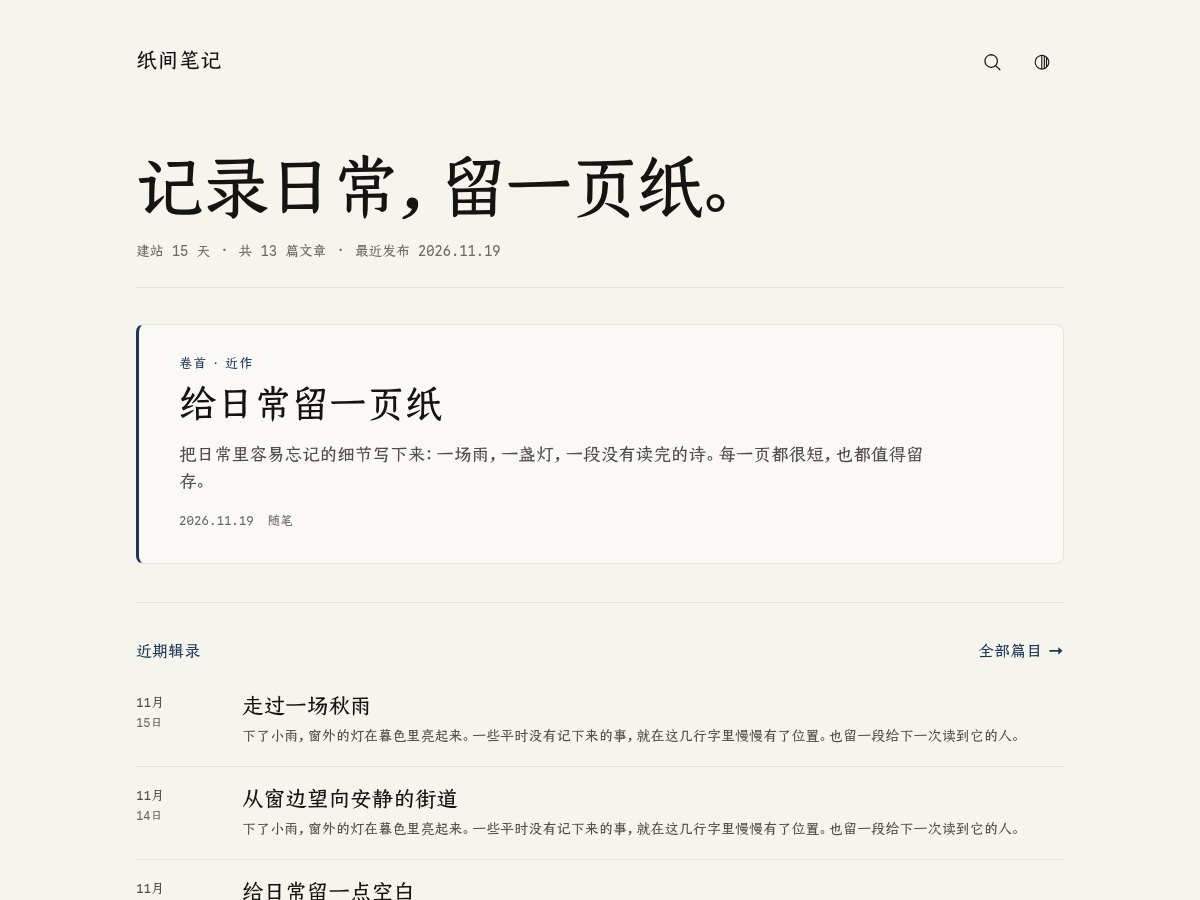
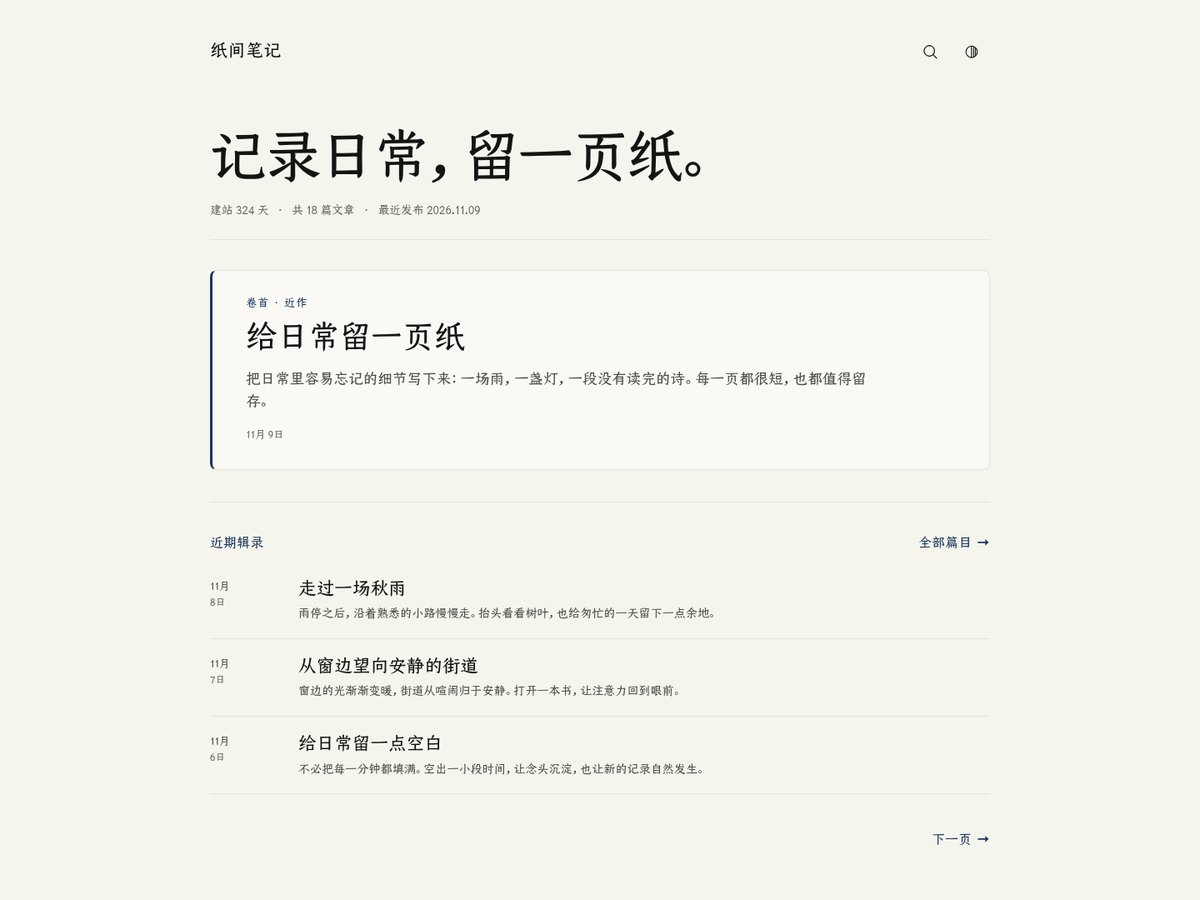
fix: interactions

diff --git a/theme/zen/js/main.js b/theme/zen/js/main.js
@@ -249,9 +249,12 @@ const zenInit = () => {
     });
 
     // --- 1. 代码高亮 + 一键复制 ---
-    const copyTextToClipboard = (text) => {
+    const copyTextToClipboard = async (text) => {
         if (navigator.clipboard && window.isSecureContext) {
-            return navigator.clipboard.writeText(text);
+            try {
+                await navigator.clipboard.writeText(text);
+                return;
+            } catch (error) {}
         }
         return new Promise((resolve, reject) => {
             const previousFocus = document.activeElement;
@@ -299,26 +302,28 @@ const zenInit = () => {
             copyBtn.appendChild(copyIcon);
             copyBtn.appendChild(copyLabel);
 
+            let copyAttempt = 0;
+            let copyResetTimer;
+            const showCopyResult = (copied, attempt) => {
+                if (attempt !== copyAttempt) return;
+                copyIcon.className = copied ? 'ph ph-check' : 'ph ph-copy';
+                copyLabel.textContent = copied ? '已复制' : '复制失败';
+                copyBtn.classList.toggle('is-copied', copied);
+                copyBtn.setAttribute('aria-label', copyLabel.textContent);
+                copyResetTimer = setTimeout(() => {
+                    copyIcon.className = 'ph ph-copy';
+                    copyLabel.textContent = '复制';
+                    copyBtn.classList.remove('is-copied');
+                    copyBtn.setAttribute('aria-label', '复制代码');
+                }, 1600);
+            };
             copyBtn.addEventListener('click', () => {
-                copyTextToClipboard(code.textContent).then(() => {
-                    copyIcon.className = 'ph ph-check';
-                    copyLabel.textContent = '已复制';
-                    copyBtn.classList.add('is-copied');
-                    copyBtn.setAttribute('aria-label', '已复制');
-                    setTimeout(() => {
-                        copyIcon.className = 'ph ph-copy';
-                        copyLabel.textContent = '复制';
-                        copyBtn.classList.remove('is-copied');
-                        copyBtn.setAttribute('aria-label', '复制代码');
-                    }, 1600);
-                }).catch(() => {
-                    copyLabel.textContent = '复制失败';
-                    copyBtn.setAttribute('aria-label', '复制失败');
-                    setTimeout(() => {
-                        copyLabel.textContent = '复制';
-                        copyBtn.setAttribute('aria-label', '复制代码');
-                    }, 1600);
-                });
+                const attempt = ++copyAttempt;
+                clearTimeout(copyResetTimer);
+                copyTextToClipboard(code.textContent).then(
+                    () => showCopyResult(true, attempt),
+                    () => showCopyResult(false, attempt)
+                );
             });
 
             const frame = document.createElement('div');
@@ -648,6 +653,7 @@ const zenInit = () => {
     const drawerClose = document.getElementById('drawer-toc-close');
     let lastFocusBeforeDrawer;
     let drawerCloseTimer;
+    let drawerNavigationTarget;
     let drawerOpening = 0;
 
     if (tocTriggers.length && drawerToc && tocOverlay) {
@@ -660,6 +666,7 @@ const zenInit = () => {
             } else {
                 lastFocusBeforeDrawer = event.currentTarget;
             }
+            drawerNavigationTarget = null;
             tocOverlay.classList.remove('hidden');
             const opening = ++drawerOpening;
             requestAnimationFrame(() => {
@@ -675,7 +682,9 @@ const zenInit = () => {
         };
 
         closeDrawer = (navigationTarget = null) => {
-            if (activeModal?.container !== drawerToc || drawerCloseTimer) return;
+            if (activeModal?.container !== drawerToc) return;
+            if (navigationTarget) drawerNavigationTarget = navigationTarget;
+            if (drawerCloseTimer) return;
             ++drawerOpening;
             tocOverlay.classList.add('opacity-0');
             drawerToc.classList.add('translate-x-full');
@@ -687,8 +696,9 @@ const zenInit = () => {
                 drawerToc.setAttribute('inert', '');
                 drawerCloseTimer = null;
                 unlockModal();
-                if (navigationTarget) focusTocTarget(navigationTarget);
+                if (drawerNavigationTarget) focusTocTarget(drawerNavigationTarget);
                 else restoreModalFocus(lastFocusBeforeDrawer);
+                drawerNavigationTarget = null;
             }, 300);
         };
 

diff --git a/theme/zen/assets/js/admin.js b/theme/zen/assets/js/admin.js
@@ -80,8 +80,7 @@
                 if (!editors[index]) {
                     var instance = window.wp.codeEditor.initialize(field, {
                         codemirror: {
-                            screenReaderLabel: field.labels[0].textContent.trim(),
-                            extraKeys: { 'Ctrl-S': saveSettings, 'Cmd-S': saveSettings }
+                            screenReaderLabel: field.labels[0].textContent.trim()
                         },
                         onTabNext: function () { focusCode(index + 1); },
                         onTabPrevious: function () { focusCode(index - 1); }
@@ -122,11 +121,12 @@
         document.addEventListener('click', clearSubmission, true);
         document.addEventListener('keydown', clearSubmission, true);
         document.addEventListener('keydown', function (event) {
+            // Capture before CodeMirror consumes the key: one validated save path for every control.
             if (event.defaultPrevented || event.isComposing || event.key.toLowerCase() !== 's'
                 || !(event.ctrlKey || event.metaKey) || event.shiftKey || event.altKey || !form.requestSubmit) return;
             event.preventDefault();
             if (!event.repeat) saveSettings();
-        });
+        }, true);
         window.addEventListener('beforeunload', function (event) {
             // A native submit may leave this document open (for example on HTTP 204).
             var leavingForSubmit = submission && !submission.defaultPrevented;

diff --git a/theme/zen/assets/css/style.css b/theme/zen/assets/css/style.css
@@ -770,6 +770,11 @@ select:focus-visible {
 .zen-comment-card .zen-comment-text p:first-child {
     margin-top: 0;
 }
+.zen-comment-card { overflow-wrap: anywhere; }
+.zen-comment-text pre {
+    max-width: 100%;
+    overflow-x: auto;
+}
 .comment-form {
     display: grid;
     gap: 1.05rem 1.25rem;
@@ -911,6 +916,7 @@ select:focus-visible {
 }
 .comment-list {
     display: grid;
+    grid-template-columns: minmax(0, 1fr);
     gap: 0;
     padding-top: 0.5rem;
 }
@@ -925,6 +931,7 @@ select:focus-visible {
 }
 .comment-list .children {
     display: grid;
+    grid-template-columns: minmax(0, 1fr);
     gap: 0;
     margin-top: 0.9rem;
     margin-left: 2.25rem;

diff --git a/tests/native-comment-layout-regression.py b/tests/native-comment-layout-regression.py
@@ -1,0 +1,69 @@
+"""Native comment names and preformatted text stay inside the reading column."""
+from pathlib import Path
+import json
+import os
+import subprocess
+import sys
+from playwright.sync_api import sync_playwright
+
+root = Path(sys.argv[1]).resolve()
+origin = 'http://127.0.0.1:18765'
+assert (root / 'runtime/.zen-isolated-fixture').is_file()
+cli = ['php', '/opt/test-tools/wordpress/wp-cli.phar', '--allow-root', '--path=' + str(root / 'runtime')]
+def wp(*args):
+    result = subprocess.run(cli + list(args), capture_output=True, text=True)
+    assert result.returncode == 0, result.stderr
+    return result.stdout.strip()
+assert json.loads(wp('eval', 'echo wp_json_encode([wp_get_environment_type(),home_url(),FQDB]);')) == ['local', origin, str(root / 'db/zen.sqlite')]
+source = Path(__file__).resolve().parents[1] / 'theme/zen/assets/css/style.css'
+assert source.read_bytes() == (root / 'runtime/wp-content/themes/zen/assets/css/style.css').read_bytes()
+rows, errors = [], []
+post = wp('post', 'create', '--post_title=Native comment layout', '--post_status=publish', '--post_content=<p>Comment layout.</p>', '--comment_status=open', '--porcelain')
+try:
+    parent = '0'
+    for depth in range(3):
+        parent = wp('comment', 'create', '--comment_post_ID=' + post, '--comment_parent=' + parent,
+                    '--comment_author=' + 'Reader' * 35, '--comment_author_email=local@example.invalid',
+                    '--comment_content=<p>' + 'https://example.test/long/' * 12 + '</p><pre><code>' + 'abcdefghijklmnopqrstuvwxyz' * 25 + '</code></pre>',
+                    '--comment_approved=1', '--porcelain')
+    with sync_playwright() as p:
+        browser = p.chromium.launch(executable_path='/usr/lib/chromium/chromium', args=['--no-sandbox', '--disable-dev-shm-usage', '--single-process', '--no-zygote'], env={**os.environ, 'DBUS_SESSION_BUS_ADDRESS': 'unix:path=/nonexistent', 'DBUS_SYSTEM_BUS_ADDRESS': 'unix:path=/nonexistent'})
+        group = Path('/proc/self/cgroup').read_text()
+        control = Path('/sys/fs/cgroup') / group.strip().split('::/', 1)[1]
+        assert any((x / 'memory.max').is_file() and (x / 'memory.max').read_text().strip() == '4294967296' and (x / 'memory.swap.max').read_text().strip() == '0' for x in (control, *control.parents))
+        processes = browser.new_browser_cdp_session().send('SystemInfo.getProcessInfo')['processInfo']
+        assert processes and all(Path(f'/proc/{item["id"]}/cgroup').read_text() == group for item in processes)
+        context = browser.new_context(reduced_motion='reduce')
+        context.route('**/*', lambda route: route.continue_() if route.request.url.startswith(origin + '/') or route.request.url.startswith('data:') else route.abort())
+        page = context.new_page()
+        page.on('pageerror', lambda error: errors.append(str(error)))
+        for width in (320, 390, 768, 1440):
+            page.set_viewport_size({'width': width, 'height': 900})
+            response = page.goto(origin + '/?p=' + post, wait_until='networkidle')
+            assert response.status == 200
+            for dark in (False, True):
+                page.evaluate('(dark)=>document.documentElement.classList.toggle("dark",dark)', dark)
+                data = page.evaluate('''()=>({overflow:document.documentElement.scrollWidth-innerWidth,cards:[...document.querySelectorAll('.zen-comment-card')].map(e=>{const r=e.getBoundingClientRect(),name=e.querySelector('h4'),pre=e.querySelector('pre'),reply=e.querySelector('.comment-reply-link'),code=e.querySelector('pre code');return {left:r.left,right:r.right,nameWrap:getComputedStyle(name).overflowWrap,nameOverflow:name.scrollWidth-name.clientWidth,preWidth:pre.clientWidth,preScroll:pre.scrollWidth,preOverflow:getComputedStyle(pre).overflowX,code:code.textContent,reply:!!reply&&reply.getBoundingClientRect().width>0}})})''')
+                assert data['overflow'] <= 1, (width, dark, data)
+                assert len(data['cards']) == 3, data
+                for card in data['cards']:
+                    assert 0 <= card['left'] < card['right'] <= width, card
+                    assert card['nameWrap'] == 'anywhere' and card['nameOverflow'] <= 1, card
+                    assert card['preWidth'] > 0 and card['preScroll'] > card['preWidth'] and card['preOverflow'] == 'auto', card
+                    assert card['code'] == 'abcdefghijklmnopqrstuvwxyz' * 25 and card['reply'], card
+                scrollable = page.locator('.zen-comment-text pre').evaluate_all('es=>es.map(e=>{e.scrollLeft=e.scrollWidth;return e.scrollLeft>0})')
+                assert all(scrollable) and len(scrollable)==3, scrollable
+                assert page.evaluate('document.documentElement.scrollWidth<=innerWidth+1')
+                row = {'width': width, 'dark': dark, 'passed': True, 'metrics': data}
+                rows.append(row)
+                with (root / 'evidence/native-comment-layout.jsonl').open('a') as stream:
+                    stream.write(json.dumps(row) + '\n')
+                print('PASS native long comments', width, 'dark' if dark else 'light', flush=True)
+                if width in (390, 1440):
+                    page.evaluate('scrollTo(0,0)')
+                    page.screenshot(path=str(root / 'evidence' / f'comment-layout-{width}-{dark}.png'), full_page=True)
+        browser.close()
+finally:
+    wp('post', 'delete', post, '--force')
+assert not errors, errors
+print('NATIVE_COMMENT_LAYOUT_COMPLETE', len(rows), 'cases, no script errors')

diff --git a/tests/ui-detail-regression.py b/tests/ui-detail-regression.py
@@ -14,7 +14,9 @@ with sync_playwright() as p:
  def check(label,fn):
   if case not in ('all',label):return
   try:fn();rows.append({'name':label,'passed':True})
-  except Exception as e:rows.append({'name':label,'passed':False,'error':str(e)})
+  except Exception as e:
+   import traceback
+   rows.append({'name':label,'passed':False,'error':traceback.format_exc()})
  def first_paint():
   page.goto(origin+'/',wait_until='networkidle')
   attrs=page.locator('head script').evaluate_all('es=>es.filter(e=>e.textContent.includes("var storageKey = ")).map(e=>({exclude:e.hasAttribute("nowprocket"),type:e.type}))')
@@ -96,14 +98,33 @@ with sync_playwright() as p:
   assert page.locator('.zen-archive-row a:visible').count()==page.locator('.zen-archive-row a').count()
  if case=='archive-noscript':check('archive-noscript',archive_noscript)
  def clipboard():
-  page.add_init_script('''Object.defineProperty(navigator,'clipboard',{value:undefined});const nativeCopy=document.execCommand;document.execCommand=function(...args){window.__nativeCopy={command:args[0],selected:window.getSelection().toString(),active:document.activeElement.tagName};return nativeCopy.apply(this,args)};''')
+  page.add_init_script('''const nativeCopy=document.execCommand;document.execCommand=function(...args){window.__nativeCopy={command:args[0],selected:window.getSelection().toString(),active:document.activeElement.tagName};return nativeCopy.apply(this,args)};''')
+  def deny_modern_write(route):
+   response=route.fetch()
+   route.fulfill(response=response,headers={**response.headers,'Permissions-Policy':'clipboard-write=()'})
+  page.route(f['surfaces']['article'],deny_modern_write)
   page.goto(f['surfaces']['article'],wait_until='networkidle')
+  assert page.evaluate('Boolean(isSecureContext && navigator.clipboard?.writeText)'), 'Native Clipboard API required'
+  assert page.evaluate('navigator.permissions.query({name:"clipboard-write"}).then(p=>p.state)')=='denied', 'Document policy must deny native modern writes'
+  denied=page.evaluate('navigator.clipboard.writeText("permission check").then(()=>false,error=>error.name==="NotAllowedError")')
+  assert denied, 'Native modern-copy denial was not reached'
   copy=page.locator('.zen-code-copy').first;copy.scroll_into_view_if_needed();copy.focus();page.keyboard.press('Enter')
   page.wait_for_function('window.__nativeCopy && /已复制|复制失败/.test(document.activeElement.textContent)')
   assert page.evaluate('document.activeElement===document.querySelector(".zen-code-copy")')
+  assert copy.inner_text()=='已复制', copy.inner_text()
   assert page.locator('body>textarea').count()==0
   native=page.evaluate('window.__nativeCopy')
   assert native['command']=='copy' and native['active']=='TEXTAREA' and native['selected']==page.locator('pre code').first.text_content(),native
+  c.grant_permissions(['clipboard-read'],origin=origin)
+  assert page.evaluate('navigator.clipboard.readText()')==native['selected'], 'Native clipboard must contain literal code'
+  page.wait_for_timeout(600)
+  copy.focus();page.keyboard.press('Enter')
+  page.wait_for_timeout(1100)
+  assert copy.inner_text()=='已复制' and copy.get_attribute('aria-label')=='已复制', 'Earlier reset must not erase newer feedback'
+  assert copy.locator('.ph-check').count()==1 and 'is-copied' in copy.get_attribute('class')
+  page.wait_for_function('document.querySelector(".zen-code-copy").getAttribute("aria-label")==="复制代码"')
+  assert copy.locator('.ph-copy').count()==1 and 'is-copied' not in copy.get_attribute('class')
+  c.clear_permissions()
  check('clipboard',clipboard)
  def audio_duration():
   page.goto(f['surfaces']['article'],wait_until='networkidle')

diff --git a/tests/native-interaction-regression.py b/tests/native-interaction-regression.py
@@ -9,7 +9,7 @@ from playwright.sync_api import sync_playwright
 
 root = Path(sys.argv[1]).resolve()
 selection = sys.argv[2] if len(sys.argv) > 2 else 'all'
-assert selection in ('all', 'audio', 'audio-ltr', 'audio-rtl', 'toc', 'highlight', 'highlight-failure')
+assert selection in ('all', 'audio', 'audio-ltr', 'audio-rtl', 'toc', 'toc-race', 'highlight', 'highlight-failure')
 assert (root / 'runtime/wp-load.php').is_file() and (root / 'db/zen.sqlite').is_file()
 origin = 'http://127.0.0.1:18765'
 cli = ['php', '/opt/test-tools/wordpress/wp-cli.phar', '--allow-root', '--path=' + str(root / 'runtime')]
@@ -35,7 +35,7 @@ try:
         control = Path('/sys/fs/cgroup') / group.strip().split('::/', 1)[1]
         ancestors = [p for p in (control, *control.parents) if (p / 'memory.max').is_file()]
         assert any((p / 'memory.max').read_text().strip() == '4294967296' and (p / 'memory.swap.max').read_text().strip() == '0' for p in ancestors)
-        for case in (('audio', 'audio-ltr', 'audio-rtl', 'toc', 'highlight', 'highlight-failure') if selection == 'all' else (selection,)):
+        for case in (('audio', 'audio-ltr', 'audio-rtl', 'toc', 'toc-race', 'highlight', 'highlight-failure') if selection == 'all' else (selection,)):
             browser = playwright.chromium.launch(executable_path='/usr/lib/chromium/chromium', args=['--no-sandbox', '--disable-dev-shm-usage', '--single-process', '--no-zygote'])
             processes = browser.new_browser_cdp_session().send('SystemInfo.getProcessInfo')['processInfo']
             assert processes and all(Path(f'/proc/{p["id"]}/cgroup').read_text() == group for p in processes)
@@ -107,6 +107,27 @@ try:
                 page.wait_for_timeout(400)
                 page.locator('pre').scroll_into_view_if_needed()
                 record('plain code and copy survive unavailable library', page.locator('pre code').inner_text() == 'const quiet = 42;' and page.locator('.zen-code-copy').is_visible())
+            elif case == 'toc-race':
+                page.locator('#header-toc-btn').click()
+                page.wait_for_timeout(350)
+                page.evaluate('''()=>{window.__chapterChoices=[];document.querySelector('#drawer-toc-nav').addEventListener('click',e=>{
+                    if(e.target.closest('a'))window.__chapterChoices.push({time:performance.now(),trusted:e.isTrusted});
+                })}''')
+                page.locator('#drawer-toc-nav a[href="#first"]').focus()
+                page.keyboard.press('Enter')
+                page.locator('#drawer-toc-nav a[href="#middle"]').focus()
+                page.keyboard.press('Enter')
+                choices=page.evaluate('window.__chapterChoices')
+                assert len(choices)==2 and all(item['trusted'] for item in choices) and choices[1]['time']-choices[0]['time']<300, choices
+                page.wait_for_timeout(400)
+                record('rapid chapter choices retain the last native fragment and focus', page.evaluate('location.hash==="#middle" && document.activeElement.id==="middle"'))
+                page.keyboard.press('Tab')
+                record('next Tab follows the last selected chapter', page.evaluate('document.activeElement.id==="middle-link"'))
+                page.locator('#header-toc-btn').click()
+                page.wait_for_timeout(350)
+                page.keyboard.press('Escape')
+                page.wait_for_timeout(350)
+                record('reopening and Escape do not reuse an old chapter focus', page.evaluate('document.activeElement.id==="header-toc-btn"'))
             elif case == 'toc':
                 page.locator('#header-toc-btn').click()
                 page.wait_for_timeout(350)

diff --git a/tests/native-admin-usability-regression.py b/tests/native-admin-usability-regression.py
@@ -145,6 +145,23 @@ with sync_playwright() as p:
     assert page.locator('#zen-code > summary').evaluate('e=>e===document.activeElement')
     assert page.evaluate('typeof window.zenEditorLiteral') == 'undefined', 'Code must not run in settings'
     page.locator('#zen_code_footer + .CodeMirror').evaluate('e=>e.CodeMirror.focus()')
+    # HTTP 204 leaves the same real document active while a held key repeats.
+    page.route(origin + '/wp-admin/options.php', lambda route: route.fulfill(status=204, body=''))
+    page.evaluate('''()=>{window.__saveKeys=[];document.addEventListener('keydown',e=>{
+        if(e.key.toLowerCase()==='s'&&e.ctrlKey)window.__saveKeys.push({repeat:e.repeat,trusted:e.isTrusted});
+    },true)}''')
+    before = len(posts)
+    page.keyboard.down('Control')
+    page.keyboard.down('s')
+    page.wait_for_timeout(120)
+    page.keyboard.down('s')
+    page.keyboard.up('s')
+    page.keyboard.up('Control')
+    page.wait_for_timeout(120)
+    assert page.evaluate('window.__saveKeys') == [{'repeat': False, 'trusted': True}, {'repeat': True, 'trusted': True}]
+    assert len(posts) == before + 1, 'Held native CodeMirror shortcut must not send duplicate POSTs'
+    assert not dialogs, dialogs
+    page.unroute(origin + '/wp-admin/options.php')
     save('Control+s')
     for position, expected in values.items():
         assert option('zen_code_' + position).replace('\r\n', '\n') == expected

diff --git a/tests/php-regression.php b/tests/php-regression.php
@@ -42,6 +42,9 @@ function zen_capture($callback) {
 function add_action($hook, $callback, $priority = 10, $accepted_args = 1) {
     $GLOBALS['zen_test_hooks'][$hook][] = $callback;
 }
+// The comments template briefly installs a Core filter around comment_form().
+function add_filter($hook, $callback, $priority = 10, $accepted_args = 1) {}
+function remove_filter($hook, $callback, $priority = 10) {}
 function esc_html($value) { return htmlspecialchars((string) $value, ENT_QUOTES | ENT_SUBSTITUTE, 'UTF-8', false); }
 function esc_attr($value) { return esc_html($value); }
 function esc_url($value) { return esc_html($value); }

diff --git a/tests/README.md b/tests/README.md
@@ -54,7 +54,7 @@ ZEN_WP_CORE=/path/to/isolated/wordpress php -n tests/reading-entity-regression.p
 node --test --test-concurrency=1 tests/highlight-regression.cjs tests/interaction-regression.cjs tests/admin-ui.cjs tests/search-lifecycle-regression.cjs tests/frontend-loading-regression.cjs tests/frontend-lifecycle-regression.cjs
 ```
 
-其他环境需自行在仓库外安装 `jsdom`，并将 `NODE_PATH` 指向对应的 `node_modules` 目录。主题安装和运行不需要这些工具。
+其他环境需自行在仓库外安装 `jsdom`，并将 `NODE_PATH` 指向对应的 `node_modules` 目录。`admin-ui.cjs` 的真实 CodeMirror 键盘回归另需解压的 WordPress Core，使用 `ZEN_WP_CORE=/path/to/wordpress` 指定（维护环境默认为 `/opt/test-tools/wordpress/clean-core`），不连接数据库。主题安装和运行不需要这些工具。
 
 ## 原生 WordPress
 
@@ -151,12 +151,15 @@ python tests/native-layout-regression.py /path/to/fixture
 python tests/native-editor-regression.py /path/to/fixture
 python tests/typography-regression.py /path/to/fixture
 python tests/native-media-typography-regression.py /path/to/fixture
+python tests/native-comment-layout-regression.py /path/to/fixture
 python tests/ui-detail-regression.py /path/to/fixture
 ```
 
 复用下面原生设置测试的隔离目录结构及 `media` 附件 ID，并准备本地 `tone.wav`、`embed.html`。测试会创建并删除自己的文章，覆盖正文列表、按钮、7 种嵌入比例、Core/Zen 媒体所有权及折叠目录；可追加 `css`、`media` 或 `details` 仅补测对应部分。浏览器仍须串行并由外部 cgroup 限制内存。
 
 新增布局检查覆盖六级标题、显式字号、原生表格内外间距、宽幅／全宽嵌入、评论同意行、16px输入、44px分页和延迟主脚本下的目录首屏稳定性。编辑器检查通过原生 block editor iframe 比较六级标题与前台的字号和间距，并核实标题、正文及代码的实际仓耳字体。字体专项 `typography-regression.py` 需要 `fixture.json` 的 `origin`、`routes`（首页、分类、标签、作者、日期、搜索，每类至少两页）及可选 `surfaces`（普通页、文章、目录、书签、留言、密码页、空搜索和404），安装包含字库的完整 ZIP，并为 `links` 准备至少一个带真实图片的书签。它逐个文本节点与表单控件比较字体，核对分页与「全部篇目」的常态／悬停样式、真实字形来源及书签圆形黑白／悬停彩色。仅在源码、包、配置及数据库未变时可加 `--resume` 续跑 JSONL 未完成项。这些测试都需要带 `.zen-isolated-fixture` 标记的 loopback 环境，并验证浏览器与测试进程同属合计不超过4GiB、swap=0的共同父cgroup。
+
+`native-comment-layout-regression.py` 创建并清理三级原生评论，核对超长昵称和预格式长代码在320–1440px浅深模式下不撑宽页面、代码可在局部横向滚动且回复入口保留。
 
 `ui-detail-regression.py` 定向检查首屏配色、正文强调、留言间距与同意说明、分类／标签日期栏、年度折叠及新增年份焦点、原生兼容复制、MediaSource 真实时长变化和后台窄屏提示。可追加 `first-paint`、`emphasis`、`guestbook`、`taxonomy`、`archive-years`、`clipboard`、`audio-duration` 或 `admin`；禁脚本归档需单独运行 `archive-noscript`（新浏览器，避免单进程多上下文限制）。需要 `surfaces.article`（含 strong/em、代码和一个原生 audio）、`surfaces.notes`、默认 800px／standard 设置及管理员 Cookie；不伪造浏览器媒体属性或复制结果。
 
@@ -203,6 +206,8 @@ python tests/archive-spacing-regression.py
 
 只用于可销毁的隔离 fixture，目录包含 `runtime/`、`db/zen.sqlite`、`fixture.json`、`evidence/`、管理员原生 Cookie 文件 `cookies.json`；权限边界测试另需 `restricted-cookies.json`，其用户具有 `manage_options` 但不具有 `unfiltered_html`。这些脚本会修改 fixture 设置、主题 mods 和样本文章，不得复用生产配置。Cookie 文件须 0600，测试后连同数据库清理。
 
-`native-admin-usability-regression.py` 专项检查普通分组的会话内展开状态、Ctrl／⌘+S 原生保存与校验、真实 CodeMirror 输入／缩进／撤销和 Escape 后 Tab 离开编辑区、320–1440px 保存栏左右分离，以及个人关闭语法高亮时的普通文本框回退；由调用者快照并恢复隔离数据库。高级代码不增加启停选项，保存、权限与三个原生输出位置保持不变。
+`clipboard` 在真实页面响应上施加 `clipboard-write=()` 权限策略，验证原生现代 API 拒绝后的 `execCommand` 实际剪贴板、焦点及连续复制反馈；不伪造复制结果。`native-interaction-regression.py` 可追加 `toc-race`，在关闭过渡内快速选择两个章节，要求最后一个原生 fragment、焦点与下一 Tab 一致。
+
+`native-admin-usability-regression.py` 专项检查普通分组的会话内展开状态、Ctrl／⌘+S 原生保存与校验、真实 CodeMirror 输入／缩进／撤销、长按快捷键不重复提交和 Escape 后 Tab 离开编辑区、320–1440px 保存栏左右分离，以及个人关闭语法高亮时的普通文本框回退；由调用者快照并恢复隔离数据库。高级代码不增加启停选项，保存、权限与三个原生输出位置保持不变。
 
 列表宽度测试在固定 1000px 版面下执行15个原生保存/视口场景，`--focused` 保留为兼容参数；仍断言真实文章ID与非空样本。逐页测试的 `fixture.json` 还需 `tag`、`emptycat`、`protected`、`multipage` 对象ID，覆盖15类前台页面、后台及其实际操作。站点固定为 `http://127.0.0.1:18765`。设计测试复现目录遮字、字段内部换行及编辑器排版差异；设置测试覆盖旧值保留、空值清除、校验错误、代码输出与320–1440px固定保存栏；边界测试覆盖Logo、特色图、字体、宽幅媒体和伪造代码提交。浏览器仍须单实例串行并置于外部已验证内存限制内。

diff --git a/CHANGELOG.md b/CHANGELOG.md
@@ -2,6 +2,9 @@
 
 ## 2.0.2
 
+- 修复长昵称、预格式评论撑宽页面，保留长代码的局部滚动。
+- 修复剪贴板权限受限时的复制回退、连续复制反馈及目录快速跳转焦点，统一后台快捷保存以避免长按重复提交。
+- 更新真实主题封面，补齐交互、评论布局与测试入口回归。
 - 后台保存与恢复默认左右分开，记住普通设置分组的展开状态，支持快捷保存和 WordPress 原生代码编辑。
 - 紧凑模式仅隐藏普通列表摘要，首页最新文章卡片保留摘要。
 - 首页最新文章卡片只显示日期：本年度使用「11月 9日」单行显示，往年保留年份，不重复显示分类。
